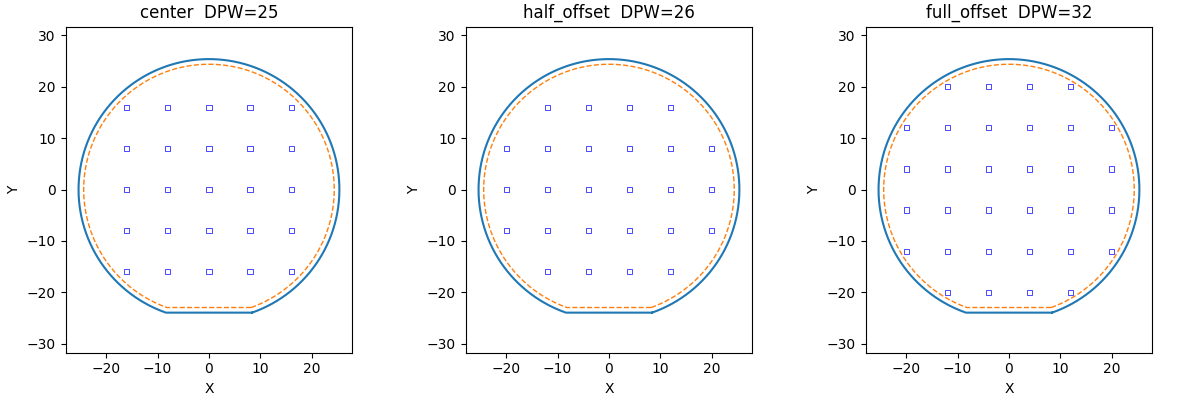
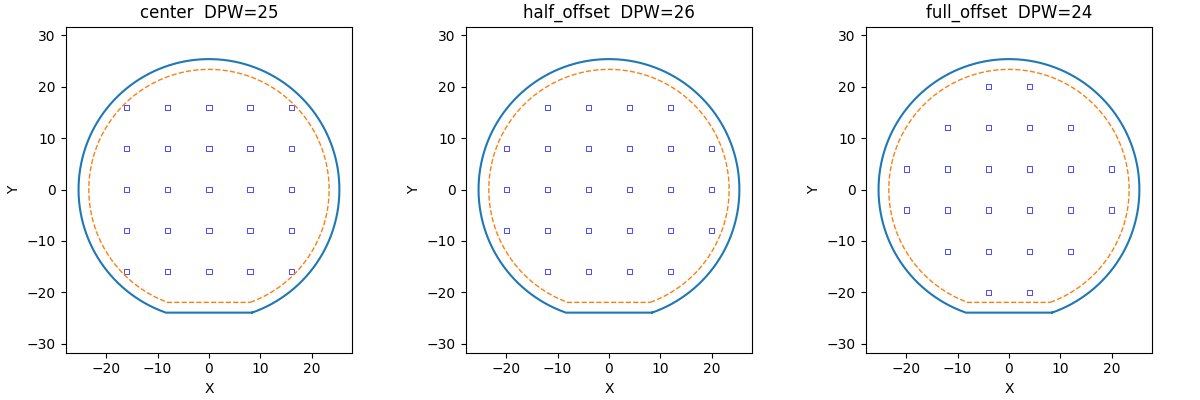
upd readme - again...

diff --git a/examples.py b/examples.py
@@ -3,7 +3,7 @@ from dieopt import get_solution, show_solution
 # Show all three solutions for comparison
 show_solution(
     wafer_diameter=50.8,
-    edge_exclusion=1.0,
+    edge_exclusion=2.0,
     width=1.0,
     height=1.0,
     scribe=7.0,

diff --git a/README.md b/README.md
@@ -30,8 +30,8 @@ from dieopt import get_solution, show_solution
 show_solution(
     wafer_diameter=50.8,
     edge_exclusion=2.0,
-    width=2.0,
-    height=2.0,
+    width=1.0,
+    height=1.0,
     scribe=7.0,
     solution="comparison"
 )
@@ -40,14 +40,14 @@ show_solution(
 coords = get_solution(
     wafer_diameter=50.8,
     edge_exclusion=2.0,
-    width=2.0,
-    height=2.0,
+    width=1.0,
+    height=1.0,
     scribe=7.0,
     solution="optimal" # or "center", "half_offset", "full_offset"
 )
 print(coords)
 
->>> [(-9.0, -18.0), (0.0, -18.0), (9.0, -18.0), (-18.0, -9.0), (-9.0, -9.0), (0.0, -9.0), (9.0, -9.0), (18.0, -9.0), (-18.0, 0.0), (-9.0, 0.0), (0.0, 0.0), (9.0, 0.0), (18.0, 0.0), (-18.0, 9.0), (-9.0, 9.0), (0.0, 9.0), (9.0, 9.0), (18.0, 9.0), (-9.0, 18.0), (0.0, 18.0), (9.0, 18.0)]
+>>> [(-12.0, -16.0), (-4.0, -16.0), (4.0, -16.0), (12.0, -16.0), (-20.0, -8.0), (-12.0, -8.0), (-4.0, -8.0), (4.0, -8.0), (12.0, -8.0), (20.0, -8.0), (-20.0, 0.0), (-12.0, 0.0), (-4.0, 0.0), (4.0, 0.0), (12.0, 0.0), (20.0, 0.0), (-20.0, 8.0), (-12.0, 8.0), (-4.0, 8.0), (4.0, 8.0), (12.0, 8.0), (20.0, 8.0), (-12.0, 16.0), (-4.0, 16.0), (4.0, 16.0), (12.0, 16.0)]
 ```
 
 ![Wafer Layout Example](example_output.png)
